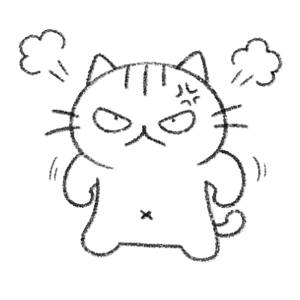
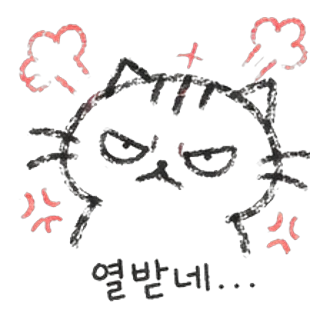
30주년 시세 글: 슨생이 만든 교묘 썸네일·이모티콘 24종으로 교체
Claude-Session: https://claude.ai/code/session_018qZyUqVku944fH1qFr9wAx

Changed region(s): [[0.06, 0.03, 0.99, 0.96], [0.45, 0.69, 0.51, 0.75], [0.78, 0.87, 0.81, 0.9]]

diff --git a/포켓몬카드-30주년-박스-시세/index.html b/포켓몬카드-30주년-박스-시세/index.html
@@ -2,22 +2,22 @@
 <html lang="ko"><head><meta charset="utf-8"><meta name="viewport" content="width=device-width,initial-scale=1">
 <title>포켓몬카드 30주년 30th CELEBRATION 박스 시세 분석 — 일본판 vs 미국판, 발매 6주 차 가격 흐름 | blvl blog</title><meta name="description" content="9월 16일 동시 발매된 포켓몬카드 30주년 30th CELEBRATION. 일본판 박스는 정가 7,200엔에서 스니커덩크 실거래가 2만 5천 엔 안팎에 머물고, 미국판 ETB는 9월 말 고점보다 30% 가까이 내려왔어요. 발매 6주 차 시세 흐름을 정리했어요.">
 <link rel="canonical" href="https://blvlblog.com/%ED%8F%AC%EC%BC%93%EB%AA%AC%EC%B9%B4%EB%93%9C-30%EC%A3%BC%EB%85%84-%EB%B0%95%EC%8A%A4-%EC%8B%9C%EC%84%B8/"><meta property="og:type" content="website"><meta property="og:title" content="포켓몬카드 30주년 30th CELEBRATION 박스 시세 분석 — 일본판 vs 미국판, 발매 6주 차 가격 흐름 | blvl blog">
-<meta property="og:description" content="9월 16일 동시 발매된 포켓몬카드 30주년 30th CELEBRATION. 일본판 박스는 정가 7,200엔에서 스니커덩크 실거래가 2만 5천 엔 안팎에 머물고, 미국판 ETB는 9월 말 고점보다 30% 가까이 내려왔어요. 발매 6주 차 시세 흐름을 정리했어요."><meta property="og:url" content="https://blvlblog.com/%ED%8F%AC%EC%BC%93%EB%AA%AC%EC%B9%B4%EB%93%9C-30%EC%A3%BC%EB%85%84-%EB%B0%95%EC%8A%A4-%EC%8B%9C%EC%84%B8/"><meta property="og:image" content="https://blvlblog.com/wp-content/uploads/2026/10/blvl-tcg-30th-gyomyo.jpg">
+<meta property="og:description" content="9월 16일 동시 발매된 포켓몬카드 30주년 30th CELEBRATION. 일본판 박스는 정가 7,200엔에서 스니커덩크 실거래가 2만 5천 엔 안팎에 머물고, 미국판 ETB는 9월 말 고점보다 30% 가까이 내려왔어요. 발매 6주 차 시세 흐름을 정리했어요."><meta property="og:url" content="https://blvlblog.com/%ED%8F%AC%EC%BC%93%EB%AA%AC%EC%B9%B4%EB%93%9C-30%EC%A3%BC%EB%85%84-%EB%B0%95%EC%8A%A4-%EC%8B%9C%EC%84%B8/"><meta property="og:image" content="https://blvlblog.com/wp-content/uploads/2026/10/blvl-tcg-30th-gyomyo-v2.jpg">
 <link rel="alternate" type="application/rss+xml" title="blvl blog" href="/feed.xml">
 <link rel="preload" href="/assets/fonts/NanumGothic-Regular.woff" as="font" type="font/woff" crossorigin>
 <link rel="icon" href="/assets/favicon-32.png" sizes="32x32"><link rel="icon" href="/favicon.ico"><link rel="apple-touch-icon" href="/assets/apple-touch-icon.png">
-<link rel="stylesheet" href="/assets/blog.css?v=7">
+<link rel="stylesheet" href="/assets/blog.css?v=8">
 <script async src="https://pagead2.googlesyndication.com/pagead/js/adsbygoogle.js?client=ca-pub-4380904134243959" crossorigin="anonymous"></script>
-<script type="application/ld+json">{"@context": "https://schema.org", "@type": "BlogPosting", "headline": "포켓몬카드 30주년 30th CELEBRATION 박스 시세 분석 — 일본판 vs 미국판, 발매 6주 차 가격 흐름", "datePublished": "2026-10-28T14:00:00+09:00", "dateModified": "2026-10-28T14:00:00+09:00", "author": {"@type": "Person", "name": "blvl"}, "description": "9월 16일 동시 발매된 포켓몬카드 30주년 30th CELEBRATION. 일본판 박스는 정가 7,200엔에서 스니커덩크 실거래가 2만 5천 엔 안팎에 머물고, 미국판 ETB는 9월 말 고점보다 30% 가까이 내려왔어요. 발매 6주 차 시세 흐름을 정리했어요.", "mainEntityOfPage": "https://blvlblog.com/%ED%8F%AC%EC%BC%93%EB%AA%AC%EC%B9%B4%EB%93%9C-30%EC%A3%BC%EB%85%84-%EB%B0%95%EC%8A%A4-%EC%8B%9C%EC%84%B8/", "image": "https://blvlblog.com/wp-content/uploads/2026/10/blvl-tcg-30th-gyomyo.jpg"}</script></head><body>
+<script type="application/ld+json">{"@context": "https://schema.org", "@type": "BlogPosting", "headline": "포켓몬카드 30주년 30th CELEBRATION 박스 시세 분석 — 일본판 vs 미국판, 발매 6주 차 가격 흐름", "datePublished": "2026-10-28T14:00:00+09:00", "dateModified": "2026-10-28T14:00:00+09:00", "author": {"@type": "Person", "name": "blvl"}, "description": "9월 16일 동시 발매된 포켓몬카드 30주년 30th CELEBRATION. 일본판 박스는 정가 7,200엔에서 스니커덩크 실거래가 2만 5천 엔 안팎에 머물고, 미국판 ETB는 9월 말 고점보다 30% 가까이 내려왔어요. 발매 6주 차 시세 흐름을 정리했어요.", "mainEntityOfPage": "https://blvlblog.com/%ED%8F%AC%EC%BC%93%EB%AA%AC%EC%B9%B4%EB%93%9C-30%EC%A3%BC%EB%85%84-%EB%B0%95%EC%8A%A4-%EC%8B%9C%EC%84%B8/", "image": "https://blvlblog.com/wp-content/uploads/2026/10/blvl-tcg-30th-gyomyo-v2.jpg"}</script></head><body>
 <header class="site-header" id="hd"><div class="inside-header">
 <a class="site-logo" href="/" rel="home"><img src="/assets/logo.png" alt="blvl blog" width="80" height="51"></a>
 <nav class="main-navigation" aria-label="메뉴"><button class="menu-toggle" type="button" onclick="document.getElementById('hd').classList.toggle('open')">☰ <span>Menu</span></button>
 <ul class="main-nav"><li><a class="" href="/">HOME</a></li><li><a class="" href="/category/tcg/">TCG</a></li><li><a class="" href="/category/minicar/">MINICAR</a></li><li><a class="" href="/category/figure/">FIGURE</a></li><li><a class="" href="/category/game/">GAME</a></li><li><a class="" href="/category/tech/">TECH</a></li></ul><a class="nav-search" href="/search/" aria-label="검색"><svg viewBox="0 0 512 512" aria-hidden="true" fill="currentColor"><path d="M208 48c-88.4 0-160 71.6-160 160s71.6 160 160 160 160-71.6 160-160S296.4 48 208 48zM0 208C0 93.1 93.1 0 208 0s208 93.1 208 208c0 48.8-16.8 93.7-45 129.2l135 135-34 34-135-135C301.7 399.2 256.8 416 208 416 93.1 416 0 322.9 0 208z"/></svg></a></nav>
 </div></header>
 <div class="site-content"><main class="content-area"><article class="inside-article"><header><h1 class="entry-title">포켓몬카드 30주년 30th CELEBRATION 박스 시세 분석 — 일본판 vs 미국판, 발매 6주 차 가격 흐름</h1>
-<div class="entry-meta"><time>2026년 10월 28일</time> by blvl.</div></header><div class="single-featured-image"><img src="/wp-content/uploads/2026/10/blvl-tcg-30th-gyomyo.jpg" alt="포켓몬카드 30주년 30th CELEBRATION 박스 시세 분석 — 일본판 vs 미국판, 발매 6주 차 가격 흐름"></div>
+<div class="entry-meta"><time>2026년 10월 28일</time> by blvl.</div></header><div class="single-featured-image"><img src="/wp-content/uploads/2026/10/blvl-tcg-30th-gyomyo-v2.jpg" alt="포켓몬카드 30주년 30th CELEBRATION 박스 시세 분석 — 일본판 vs 미국판, 발매 6주 차 가격 흐름"></div>
 <div class="entry-content"><p>포켓몬카드 30주년 확장팩 <strong>30th CELEBRATION</strong>이 2026년 9월 16일 일본·한국·영문판 동시에 나온 지 6주가 지났어요. 발매 첫 주의 광풍이 조금 가라앉은 지금, 일본판 박스와 미국(영문)판 제품 시세가 어떻게 움직였는지 숫자로 정리해 봤어요. 기준일은 <strong>2026년 10월 27~28일</strong>이에요.</p>
-<div class="emo"><img src="/wp-content/uploads/emoticons/gyomyo/excited.webp" alt="교묘 신난 표정" width="96" height="96" loading="lazy"><div class="bubble"><b>미친고양이 교묘</b>30주년이다냥! 박스 시세 오늘 내가 싹 다 털어 주겠다냥!</div></div>
+<div class="emo"><img src="/wp-content/uploads/emoticons/gyomyo/great.webp" alt="교묘 이모티콘 개좋아" width="120" height="120" loading="lazy"><div class="bubble"><b>미친고양이 교묘</b>30주년이다냥! 박스 시세 오늘 내가 싹 다 털어 주겠다냥!</div></div>
 
 <figure style="margin:1.5em 0"><div style="position:relative;padding-top:56.25%;border-radius:8px;overflow:hidden;background:#000">
 <iframe src="https://www.youtube-nocookie.com/embed/05w9UVH6zoQ" title="Pokémon TCG: 30th Celebration 공식 트레일러" loading="lazy" style="position:absolute;inset:0;width:100%;height:100%;border:0" allow="accelerometer; encrypted-media; gyroscope; picture-in-picture" allowfullscreen></iframe></div>
@@ -46,6 +46,7 @@
 <figcaption style="font-size:14px;color:#666;text-align:center">팩 구성 비교 (피카츄 30종 중 1장은 양쪽 모두 확정)</figcaption></figure>
 
 <h3>실제로 사려면 얼마? 스니커덩크 실거래가</h3>
+<div class="emo"><img src="/wp-content/uploads/emoticons/gyomyo/price-check.webp" alt="교묘 이모티콘 시세보는중" width="120" height="120" loading="lazy"><div class="bubble"><b>미친고양이 교묘</b>매일 아침 스니커덩크 시세부터 보는 게 내 루틴이다냥.</div></div>
 <p>일본 최대 트레이딩카드·스니커즈 거래 플랫폼인 스니커덩크(SNKRDUNK)의 실거래가는 실제로 박스를 살 때 기준이 되는 숫자예요. 여기에는 발매 전 예약 거래부터 기록이 남아 있어서 흐름이 훨씬 극적으로 보여요.</p>
 <figure style="margin:1.5em 0"><svg viewBox="0 0 420 250" width="100%" style="max-width:640px;display:block;margin:0 auto" role="img" aria-label="스니커덩크 일본판 BOX 일평균 거래가: 발매 전 예약 거래 8월 29일 45,000엔 정점, 발매 직전 9월 15일 17,735엔 최저, 9월 22일 28,290엔 반등, 10월 28일 24,733엔">
 <line x1="46" x2="408" y1="185.8" y2="185.8" stroke="#e3e5ea"/><text x="40" y="189.8" text-anchor="end" font-size="12" fill="#6b6f7a">2만</text><line x1="46" x2="408" y1="128.7" y2="128.7" stroke="#e3e5ea"/><text x="40" y="132.7" text-anchor="end" font-size="12" fill="#6b6f7a">3만</text><line x1="46" x2="408" y1="71.6" y2="71.6" stroke="#e3e5ea"/><text x="40" y="75.6" text-anchor="end" font-size="12" fill="#6b6f7a">4만</text><line x1="184.4" x2="184.4" y1="20" y2="220" stroke="#999" stroke-dasharray="3 3"/><text x="188.4" y="30" font-size="11" fill="#6b6f7a">발매일</text><path d="M46.0,100.2 L51.3,95.3 L56.6,83.1 L62.0,74.5 L67.3,73.8 L72.6,71.6 L77.9,57.2 L83.3,47.1 L88.6,43.1 L109.9,57.4 L115.2,61.2 L120.5,114.4 L125.9,105.3 L131.2,114.9 L136.5,113.9 L141.8,110.2 L147.1,107.7 L152.5,140.8 L157.8,159.6 L163.1,179.3 L168.4,198.6 L173.8,193.9 L179.1,198.7 L184.4,198.0 L189.7,189.0 L195.1,177.7 L200.4,173.1 L205.7,160.6 L211.0,144.2 L216.4,138.5 L221.7,152.0 L227.0,161.6 L232.3,162.0 L237.6,158.3 L243.0,161.7 L248.3,160.3 L253.6,154.6 L258.9,158.1 L264.3,153.3 L269.6,150.2 L274.9,152.6 L280.2,152.7 L285.6,150.7 L290.9,151.3 L296.2,151.7 L301.5,151.2 L306.9,151.9 L312.2,153.6 L317.5,152.5 L322.8,153.2 L328.1,154.0 L333.5,155.8 L338.8,155.0 L344.1,151.5 L349.4,154.1 L354.8,153.6 L360.1,152.5 L365.4,155.4 L370.7,153.7 L376.1,153.7 L381.4,156.0 L386.7,154.0 L392.0,155.9 L397.4,154.8 L402.7,156.1 L408.0,158.8" fill="none" stroke="#0e9f8e" stroke-width="2.5" stroke-linejoin="round"/><circle cx="88.6" cy="43.1" r="4" fill="#0e9f8e"/><text x="88.6" y="34.1" text-anchor="middle" font-size="13" font-weight="700" fill="#222">45,000엔</text><circle cx="179.1" cy="198.7" r="4" fill="#0e9f8e"/><text x="179.1" y="218.7" text-anchor="middle" font-size="13" font-weight="700" fill="#222">17,735엔</text><circle cx="216.4" cy="138.5" r="4" fill="#0e9f8e"/><text x="216.4" y="129.5" text-anchor="start" font-size="13" font-weight="700" fill="#222">28,290엔</text><circle cx="408.0" cy="158.8" r="4" fill="#0e9f8e"/><text x="408.0" y="149.8" text-anchor="end" font-size="13" font-weight="700" fill="#222">24,733엔</text><text x="46.0" y="242" text-anchor="start" font-size="12" fill="#6b6f7a">8/21</text><text x="184.4" y="242" text-anchor="middle" font-size="12" fill="#6b6f7a">9/16</text><text x="408.0" y="242" text-anchor="end" font-size="12" fill="#6b6f7a">10/28</text></svg>
@@ -59,7 +60,7 @@
 <li><strong>발매 후 반등(9월 22일):</strong> 뮤 RGB 같은 고가 카드가 나오면서 28,290엔까지 다시 올랐어요.</li>
 <li><strong>10월 박스권:</strong> 한 달 내내 25,000~26,000엔 사이에서 움직이다가, 10월 28일 평균 24,733엔으로 살짝 내려왔어요. 이날 실제 체결가는 24,000~25,000엔, 최저 판매 호가는 24,400엔이에요.</li>
 </ul>
-<div class="emo"><img src="/wp-content/uploads/emoticons/gyomyo/shock.webp" alt="교묘 충격받은 표정" width="96" height="96" loading="lazy"><div class="bubble"><b>미친고양이 교묘</b>예약 거래에서 4만 5천 엔에 산 집사들… 발매 직전에 1만 7천 엔대라니, 내 심장이 내려앉았다냥.</div></div>
+<div class="emo"><img src="/wp-content/uploads/emoticons/gyomyo/heok.webp" alt="교묘 이모티콘 헉" width="120" height="120" loading="lazy"><div class="bubble"><b>미친고양이 교묘</b>예약 거래에서 4만 5천 엔에 산 집사들… 발매 직전에 1만 7천 엔대라니, 내 심장이 내려앉았다냥.</div></div>
 <figure style="margin:1.5em auto;max-width:550px"><blockquote class="twitter-tweet" data-lang="ko" data-dnt="true" data-align="center"><p>30th CELEBRATION 세계 동시 발매 당일 공지</p><a href="https://twitter.com/Pokemon_cojp/status/2100147685734969581">포켓몬 공식(@Pokemon_cojp) X 게시물 보기</a></blockquote></figure>
 <p>같은 날 스니커덩크 기준 슈링크 없는 박스는 22,300엔, 낱개 팩은 1,000엔이에요. 팩 20개를 낱개로 사면 2만 엔이라 박스보다 싸게 먹히는 셈인데, 박스는 미개봉 보관 가치(슈링크)까지 값에 들어가 있다고 보면 돼요.</p>
 
@@ -78,7 +79,7 @@
 <p>발매 직후 매입가가 24개 업체 평균 17,358엔(슈링크 있음)이었으니, 6주 동안 오히려 올라서 자리를 잡은 셈이에요. 참고로 이 숫자는 <strong>가게가 사 주는 값(매입가)</strong>이라 실제로 사는 값은 이보다 높게 형성돼요.</p>
 
 <h3>박스 값을 받치는 카드들</h3>
-<div class="emo"><img src="/wp-content/uploads/emoticons/gyomyo/tear-pack.webp" alt="교묘 팩을 뜯는 모습" width="96" height="96" loading="lazy"><div class="bubble"><b>미친고양이 교묘</b>뮤 RGB 한 장이면 50만 엔이 넘는다냥. 그러니까 다들 박스를 못 참고 뜯는 거다냥!</div></div>
+<div class="emo"><img src="/wp-content/uploads/emoticons/gyomyo/rare.webp" alt="교묘 이모티콘 레어다" width="120" height="120" loading="lazy"><div class="bubble"><b>미친고양이 교묘</b>뮤 RGB 한 장이면 50만 엔이 넘는다냥. 그러니까 다들 박스를 못 참고 뜯는 거다냥!</div></div>
 <p>박스 시세를 끌어올리는 건 결국 최상위 카드예요. 10월 27일 기준 일본 판매가로 보면 이래요.</p>
 <ul>
 <li><strong>뮤 RGB 3종 (R/G/B):</strong> 약 53만~70만 엔. 이번 세트의 압도적인 1~3위예요.</li>
@@ -89,7 +90,7 @@
 
 <h3>FUTURISTIC BOX는 더 크게 출렁였어요</h3>
 <p>포켓몬센터 온라인 한정인 FUTURISTIC BOX(정가 27,500엔, FUR 사양 피카츄 ex 프로모 2종 포함)는 9월 20일 거래가 81,999엔까지 갔다가 지금은 6만 엔 초반이에요. 정점보다는 25% 정도 내려왔지만 여전히 정가의 2배가 넘어요.</p>
-<div class="emo"><img src="/wp-content/uploads/emoticons/gyomyo/broke.webp" alt="교묘 빈 지갑" width="96" height="96" loading="lazy"><div class="bubble"><b>미친고양이 교묘</b>정가 2만 7,500엔이 6만 엔대… 내 지갑은 이미 텅 비었다냥.</div></div>
+<div class="emo"><img src="/wp-content/uploads/emoticons/gyomyo/sob.webp" alt="교묘 이모티콘 오열" width="120" height="120" loading="lazy"><div class="bubble"><b>미친고양이 교묘</b>정가 2만 7,500엔이 6만 엔대라니… 내 지갑은 이미 울고 있다냥. ㅠㅠㅠ</div></div>
 
 <h2>미국(영문)판: 발매 후 꾸준히 내려오는 중</h2>
 <p>영문판은 구조부터 달라요. 일본판 같은 20팩 부스터 박스가 없고, 팩도 낱개로 팔지 않아요. 엘리트 트레이너 박스(ETB), 부스터 번들, 각종 컬렉션 안에 팩이 들어 있는 방식이에요. 팩 구성도 홀로 5장에 기본 에너지 1장, 코드 카드 1장이라 일본판(홀로 6장)과 차이가 있어요.</p>
@@ -110,7 +111,7 @@
 <p>예외는 <strong>포켓몬센터 한정 ETB</strong>(정가 $59.99)예요. 전용 프로모 덕에 약 $290대에서 거래되고 있어서, 일반 ETB와는 완전히 다른 시장이에요.</p>
 
 <h2>왜 이렇게 다르게 움직일까</h2>
-<div class="emo"><img src="/wp-content/uploads/emoticons/gyomyo/question.webp" alt="교묘 궁금한 표정" width="96" height="96" loading="lazy"><div class="bubble"><b>미친고양이 교묘</b>같은 30주년인데 일본판은 버티고 영문판은 왜 미끄러지냥?</div></div>
+<div class="emo"><img src="/wp-content/uploads/emoticons/gyomyo/hmm-question.webp" alt="교묘 이모티콘 갸우뚱" width="120" height="120" loading="lazy"><div class="bubble"><b>미친고양이 교묘</b>같은 30주년인데 일본판은 버티고 영문판은 왜 미끄러지냥?</div></div>
 <p>제가 보기엔 <strong>공급 구조</strong>의 차이가 커요.</p>
 <ul>
 <li><strong>영문판은 제품이 계속 나와요.</strong> 9월 16일 ETB를 시작으로 10월 2일 부스터 번들, 11월 6일 울트라 프리미엄 컬렉션($179.99), 12월 4일 틴·바인더 컬렉션까지 발매 일정이 이어져요. 물량이 계속 풀리니 가격이 내려올 수밖에 없는 흐름이에요.</li>
@@ -118,14 +119,14 @@
 </ul>
 
 <h2>앞으로 볼 체크포인트</h2>
-<div class="emo"><img src="/wp-content/uploads/emoticons/gyomyo/sleep.webp" alt="교묘 박스 위에서 자는 모습" width="96" height="96" loading="lazy"><div class="bubble"><b>미친고양이 교묘</b>나는 박스 위에서 12월 추가 추첨까지 존버하겠다냥… 쿨쿨.</div></div>
+<div class="emo"><img src="/wp-content/uploads/emoticons/gyomyo/mine.webp" alt="교묘 이모티콘 내꺼야" width="120" height="120" loading="lazy"><div class="bubble"><b>미친고양이 교묘</b>이 박스는 내꺼다냥. 12월 추가 추첨까지 꼭 끌어안고 존버하겠다냥…</div></div>
 <ul>
 <li><strong>일본:</strong> 포켓몬센터 온라인이 2026년 12월쯤 추가 추첨을 예고했어요. 물량이 더 풀리면 박스권 하단(2만 5천 엔)이 지켜질지가 관건이에요.</li>
 <li><strong>미국:</strong> 11월 6일 울트라 프리미엄 컬렉션, 12월 4일 틴·바인더 발매 뒤 ETB가 $100 아래로 내려가는지 지켜볼 만해요.</li>
 <li><strong>한국:</strong> 한국판은 일본판과 같은 20팩 구성에 정가 7만 원이에요. 일본판 흐름을 따라갈 가능성이 높아 보여요.</li>
 </ul>
 
-<div class="emo"><img src="/wp-content/uploads/emoticons/gyomyo/smug.webp" alt="교묘 엄지척" width="96" height="96" loading="lazy"><div class="bubble"><b>미친고양이 교묘</b>정리하면, 일본판은 2만 5천 엔대 박스권이고 영문판은 아직 내려가는 중이다냥. 다음 시세 리포트도 기대하라냥!</div></div>
+<div class="emo"><img src="/wp-content/uploads/emoticons/gyomyo/good.webp" alt="교묘 이모티콘 굿" width="120" height="120" loading="lazy"><div class="bubble"><b>미친고양이 교묘</b>정리하면, 일본판은 2만 5천 엔대 박스권이고 영문판은 아직 내려가는 중이다냥. 다음 시세 리포트도 기대하라냥!</div></div>
 <p style="font-size:14px;color:#666">※ 이 글의 시세는 2026년 10월 27~28일 기준이며, 매입가와 판매가, 집계 사이트에 따라 숫자가 다를 수 있어요. 투자 권유가 아니라 수집가 입장에서 시장 흐름을 정리한 글이에요.</p>
 
 <h3>참고한 자료</h3>

diff --git a/_posts/포켓몬카드-30주년-박스-시세.html b/_posts/포켓몬카드-30주년-박스-시세.html
@@ -5,7 +5,7 @@
  "date": "2026-10-28 14:00:00",
  "mod": "2026-10-28 14:00:00",
  "desc": "9월 16일 동시 발매된 포켓몬카드 30주년 30th CELEBRATION. 일본판 박스는 정가 7,200엔에서 스니커덩크 실거래가 2만 5천 엔 안팎에 머물고, 미국판 ETB는 9월 말 고점보다 30% 가까이 내려왔어요. 발매 6주 차 시세 흐름을 정리했어요.",
- "thumb": "/wp-content/uploads/2026/10/blvl-tcg-30th-gyomyo.jpg",
+ "thumb": "/wp-content/uploads/2026/10/blvl-tcg-30th-gyomyo-v2.jpg",
  "category": "tcg",
  "tags": [
   "포켓몬카드",
@@ -17,7 +17,7 @@
 }
 -->
 <p>포켓몬카드 30주년 확장팩 <strong>30th CELEBRATION</strong>이 2026년 9월 16일 일본·한국·영문판 동시에 나온 지 6주가 지났어요. 발매 첫 주의 광풍이 조금 가라앉은 지금, 일본판 박스와 미국(영문)판 제품 시세가 어떻게 움직였는지 숫자로 정리해 봤어요. 기준일은 <strong>2026년 10월 27~28일</strong>이에요.</p>
-<div class="emo"><img src="/wp-content/uploads/emoticons/gyomyo/excited.webp" alt="교묘 신난 표정" width="96" height="96" loading="lazy"><div class="bubble"><b>미친고양이 교묘</b>30주년이다냥! 박스 시세 오늘 내가 싹 다 털어 주겠다냥!</div></div>
+<div class="emo"><img src="/wp-content/uploads/emoticons/gyomyo/great.webp" alt="교묘 이모티콘 개좋아" width="120" height="120" loading="lazy"><div class="bubble"><b>미친고양이 교묘</b>30주년이다냥! 박스 시세 오늘 내가 싹 다 털어 주겠다냥!</div></div>
 
 <figure style="margin:1.5em 0"><div style="position:relative;padding-top:56.25%;border-radius:8px;overflow:hidden;background:#000">
 <iframe src="https://www.youtube-nocookie.com/embed/05w9UVH6zoQ" title="Pokémon TCG: 30th Celebration 공식 트레일러" loading="lazy" style="position:absolute;inset:0;width:100%;height:100%;border:0" allow="accelerometer; encrypted-media; gyroscope; picture-in-picture" allowfullscreen></iframe></div>
@@ -46,6 +46,7 @@
 <figcaption style="font-size:14px;color:#666;text-align:center">팩 구성 비교 (피카츄 30종 중 1장은 양쪽 모두 확정)</figcaption></figure>
 
 <h3>실제로 사려면 얼마? 스니커덩크 실거래가</h3>
+<div class="emo"><img src="/wp-content/uploads/emoticons/gyomyo/price-check.webp" alt="교묘 이모티콘 시세보는중" width="120" height="120" loading="lazy"><div class="bubble"><b>미친고양이 교묘</b>매일 아침 스니커덩크 시세부터 보는 게 내 루틴이다냥.</div></div>
 <p>일본 최대 트레이딩카드·스니커즈 거래 플랫폼인 스니커덩크(SNKRDUNK)의 실거래가는 실제로 박스를 살 때 기준이 되는 숫자예요. 여기에는 발매 전 예약 거래부터 기록이 남아 있어서 흐름이 훨씬 극적으로 보여요.</p>
 <figure style="margin:1.5em 0"><svg viewBox="0 0 420 250" width="100%" style="max-width:640px;display:block;margin:0 auto" role="img" aria-label="스니커덩크 일본판 BOX 일평균 거래가: 발매 전 예약 거래 8월 29일 45,000엔 정점, 발매 직전 9월 15일 17,735엔 최저, 9월 22일 28,290엔 반등, 10월 28일 24,733엔">
 <line x1="46" x2="408" y1="185.8" y2="185.8" stroke="#e3e5ea"/><text x="40" y="189.8" text-anchor="end" font-size="12" fill="#6b6f7a">2만</text><line x1="46" x2="408" y1="128.7" y2="128.7" stroke="#e3e5ea"/><text x="40" y="132.7" text-anchor="end" font-size="12" fill="#6b6f7a">3만</text><line x1="46" x2="408" y1="71.6" y2="71.6" stroke="#e3e5ea"/><text x="40" y="75.6" text-anchor="end" font-size="12" fill="#6b6f7a">4만</text><line x1="184.4" x2="184.4" y1="20" y2="220" stroke="#999" stroke-dasharray="3 3"/><text x="188.4" y="30" font-size="11" fill="#6b6f7a">발매일</text><path d="M46.0,100.2 L51.3,95.3 L56.6,83.1 L62.0,74.5 L67.3,73.8 L72.6,71.6 L77.9,57.2 L83.3,47.1 L88.6,43.1 L109.9,57.4 L115.2,61.2 L120.5,114.4 L125.9,105.3 L131.2,114.9 L136.5,113.9 L141.8,110.2 L147.1,107.7 L152.5,140.8 L157.8,159.6 L163.1,179.3 L168.4,198.6 L173.8,193.9 L179.1,198.7 L184.4,198.0 L189.7,189.0 L195.1,177.7 L200.4,173.1 L205.7,160.6 L211.0,144.2 L216.4,138.5 L221.7,152.0 L227.0,161.6 L232.3,162.0 L237.6,158.3 L243.0,161.7 L248.3,160.3 L253.6,154.6 L258.9,158.1 L264.3,153.3 L269.6,150.2 L274.9,152.6 L280.2,152.7 L285.6,150.7 L290.9,151.3 L296.2,151.7 L301.5,151.2 L306.9,151.9 L312.2,153.6 L317.5,152.5 L322.8,153.2 L328.1,154.0 L333.5,155.8 L338.8,155.0 L344.1,151.5 L349.4,154.1 L354.8,153.6 L360.1,152.5 L365.4,155.4 L370.7,153.7 L376.1,153.7 L381.4,156.0 L386.7,154.0 L392.0,155.9 L397.4,154.8 L402.7,156.1 L408.0,158.8" fill="none" stroke="#0e9f8e" stroke-width="2.5" stroke-linejoin="round"/><circle cx="88.6" cy="43.1" r="4" fill="#0e9f8e"/><text x="88.6" y="34.1" text-anchor="middle" font-size="13" font-weight="700" fill="#222">45,000엔</text><circle cx="179.1" cy="198.7" r="4" fill="#0e9f8e"/><text x="179.1" y="218.7" text-anchor="middle" font-size="13" font-weight="700" fill="#222">17,735엔</text><circle cx="216.4" cy="138.5" r="4" fill="#0e9f8e"/><text x="216.4" y="129.5" text-anchor="start" font-size="13" font-weight="700" fill="#222">28,290엔</text><circle cx="408.0" cy="158.8" r="4" fill="#0e9f8e"/><text x="408.0" y="149.8" text-anchor="end" font-size="13" font-weight="700" fill="#222">24,733엔</text><text x="46.0" y="242" text-anchor="start" font-size="12" fill="#6b6f7a">8/21</text><text x="184.4" y="242" text-anchor="middle" font-size="12" fill="#6b6f7a">9/16</text><text x="408.0" y="242" text-anchor="end" font-size="12" fill="#6b6f7a">10/28</text></svg>
@@ -59,7 +60,7 @@
 <li><strong>발매 후 반등(9월 22일):</strong> 뮤 RGB 같은 고가 카드가 나오면서 28,290엔까지 다시 올랐어요.</li>
 <li><strong>10월 박스권:</strong> 한 달 내내 25,000~26,000엔 사이에서 움직이다가, 10월 28일 평균 24,733엔으로 살짝 내려왔어요. 이날 실제 체결가는 24,000~25,000엔, 최저 판매 호가는 24,400엔이에요.</li>
 </ul>
-<div class="emo"><img src="/wp-content/uploads/emoticons/gyomyo/shock.webp" alt="교묘 충격받은 표정" width="96" height="96" loading="lazy"><div class="bubble"><b>미친고양이 교묘</b>예약 거래에서 4만 5천 엔에 산 집사들… 발매 직전에 1만 7천 엔대라니, 내 심장이 내려앉았다냥.</div></div>
+<div class="emo"><img src="/wp-content/uploads/emoticons/gyomyo/heok.webp" alt="교묘 이모티콘 헉" width="120" height="120" loading="lazy"><div class="bubble"><b>미친고양이 교묘</b>예약 거래에서 4만 5천 엔에 산 집사들… 발매 직전에 1만 7천 엔대라니, 내 심장이 내려앉았다냥.</div></div>
 <figure style="margin:1.5em auto;max-width:550px"><blockquote class="twitter-tweet" data-lang="ko" data-dnt="true" data-align="center"><p>30th CELEBRATION 세계 동시 발매 당일 공지</p><a href="https://twitter.com/Pokemon_cojp/status/2100147685734969581">포켓몬 공식(@Pokemon_cojp) X 게시물 보기</a></blockquote></figure>
 <p>같은 날 스니커덩크 기준 슈링크 없는 박스는 22,300엔, 낱개 팩은 1,000엔이에요. 팩 20개를 낱개로 사면 2만 엔이라 박스보다 싸게 먹히는 셈인데, 박스는 미개봉 보관 가치(슈링크)까지 값에 들어가 있다고 보면 돼요.</p>
 
@@ -78,7 +79,7 @@
 <p>발매 직후 매입가가 24개 업체 평균 17,358엔(슈링크 있음)이었으니, 6주 동안 오히려 올라서 자리를 잡은 셈이에요. 참고로 이 숫자는 <strong>가게가 사 주는 값(매입가)</strong>이라 실제로 사는 값은 이보다 높게 형성돼요.</p>
 
 <h3>박스 값을 받치는 카드들</h3>
-<div class="emo"><img src="/wp-content/uploads/emoticons/gyomyo/tear-pack.webp" alt="교묘 팩을 뜯는 모습" width="96" height="96" loading="lazy"><div class="bubble"><b>미친고양이 교묘</b>뮤 RGB 한 장이면 50만 엔이 넘는다냥. 그러니까 다들 박스를 못 참고 뜯는 거다냥!</div></div>
+<div class="emo"><img src="/wp-content/uploads/emoticons/gyomyo/rare.webp" alt="교묘 이모티콘 레어다" width="120" height="120" loading="lazy"><div class="bubble"><b>미친고양이 교묘</b>뮤 RGB 한 장이면 50만 엔이 넘는다냥. 그러니까 다들 박스를 못 참고 뜯는 거다냥!</div></div>
 <p>박스 시세를 끌어올리는 건 결국 최상위 카드예요. 10월 27일 기준 일본 판매가로 보면 이래요.</p>
 <ul>
 <li><strong>뮤 RGB 3종 (R/G/B):</strong> 약 53만~70만 엔. 이번 세트의 압도적인 1~3위예요.</li>
@@ -89,7 +90,7 @@
 
 <h3>FUTURISTIC BOX는 더 크게 출렁였어요</h3>
 <p>포켓몬센터 온라인 한정인 FUTURISTIC BOX(정가 27,500엔, FUR 사양 피카츄 ex 프로모 2종 포함)는 9월 20일 거래가 81,999엔까지 갔다가 지금은 6만 엔 초반이에요. 정점보다는 25% 정도 내려왔지만 여전히 정가의 2배가 넘어요.</p>
-<div class="emo"><img src="/wp-content/uploads/emoticons/gyomyo/broke.webp" alt="교묘 빈 지갑" width="96" height="96" loading="lazy"><div class="bubble"><b>미친고양이 교묘</b>정가 2만 7,500엔이 6만 엔대… 내 지갑은 이미 텅 비었다냥.</div></div>
+<div class="emo"><img src="/wp-content/uploads/emoticons/gyomyo/sob.webp" alt="교묘 이모티콘 오열" width="120" height="120" loading="lazy"><div class="bubble"><b>미친고양이 교묘</b>정가 2만 7,500엔이 6만 엔대라니… 내 지갑은 이미 울고 있다냥. ㅠㅠㅠ</div></div>
 
 <h2>미국(영문)판: 발매 후 꾸준히 내려오는 중</h2>
 <p>영문판은 구조부터 달라요. 일본판 같은 20팩 부스터 박스가 없고, 팩도 낱개로 팔지 않아요. 엘리트 트레이너 박스(ETB), 부스터 번들, 각종 컬렉션 안에 팩이 들어 있는 방식이에요. 팩 구성도 홀로 5장에 기본 에너지 1장, 코드 카드 1장이라 일본판(홀로 6장)과 차이가 있어요.</p>
@@ -110,7 +111,7 @@
 <p>예외는 <strong>포켓몬센터 한정 ETB</strong>(정가 $59.99)예요. 전용 프로모 덕에 약 $290대에서 거래되고 있어서, 일반 ETB와는 완전히 다른 시장이에요.</p>
 
 <h2>왜 이렇게 다르게 움직일까</h2>
-<div class="emo"><img src="/wp-content/uploads/emoticons/gyomyo/question.webp" alt="교묘 궁금한 표정" width="96" height="96" loading="lazy"><div class="bubble"><b>미친고양이 교묘</b>같은 30주년인데 일본판은 버티고 영문판은 왜 미끄러지냥?</div></div>
+<div class="emo"><img src="/wp-content/uploads/emoticons/gyomyo/hmm-question.webp" alt="교묘 이모티콘 갸우뚱" width="120" height="120" loading="lazy"><div class="bubble"><b>미친고양이 교묘</b>같은 30주년인데 일본판은 버티고 영문판은 왜 미끄러지냥?</div></div>
 <p>제가 보기엔 <strong>공급 구조</strong>의 차이가 커요.</p>
 <ul>
 <li><strong>영문판은 제품이 계속 나와요.</strong> 9월 16일 ETB를 시작으로 10월 2일 부스터 번들, 11월 6일 울트라 프리미엄 컬렉션($179.99), 12월 4일 틴·바인더 컬렉션까지 발매 일정이 이어져요. 물량이 계속 풀리니 가격이 내려올 수밖에 없는 흐름이에요.</li>
@@ -118,14 +119,14 @@
 </ul>
 
 <h2>앞으로 볼 체크포인트</h2>
-<div class="emo"><img src="/wp-content/uploads/emoticons/gyomyo/sleep.webp" alt="교묘 박스 위에서 자는 모습" width="96" height="96" loading="lazy"><div class="bubble"><b>미친고양이 교묘</b>나는 박스 위에서 12월 추가 추첨까지 존버하겠다냥… 쿨쿨.</div></div>
+<div class="emo"><img src="/wp-content/uploads/emoticons/gyomyo/mine.webp" alt="교묘 이모티콘 내꺼야" width="120" height="120" loading="lazy"><div class="bubble"><b>미친고양이 교묘</b>이 박스는 내꺼다냥. 12월 추가 추첨까지 꼭 끌어안고 존버하겠다냥…</div></div>
 <ul>
 <li><strong>일본:</strong> 포켓몬센터 온라인이 2026년 12월쯤 추가 추첨을 예고했어요. 물량이 더 풀리면 박스권 하단(2만 5천 엔)이 지켜질지가 관건이에요.</li>
 <li><strong>미국:</strong> 11월 6일 울트라 프리미엄 컬렉션, 12월 4일 틴·바인더 발매 뒤 ETB가 $100 아래로 내려가는지 지켜볼 만해요.</li>
 <li><strong>한국:</strong> 한국판은 일본판과 같은 20팩 구성에 정가 7만 원이에요. 일본판 흐름을 따라갈 가능성이 높아 보여요.</li>
 </ul>
 
-<div class="emo"><img src="/wp-content/uploads/emoticons/gyomyo/smug.webp" alt="교묘 엄지척" width="96" height="96" loading="lazy"><div class="bubble"><b>미친고양이 교묘</b>정리하면, 일본판은 2만 5천 엔대 박스권이고 영문판은 아직 내려가는 중이다냥. 다음 시세 리포트도 기대하라냥!</div></div>
+<div class="emo"><img src="/wp-content/uploads/emoticons/gyomyo/good.webp" alt="교묘 이모티콘 굿" width="120" height="120" loading="lazy"><div class="bubble"><b>미친고양이 교묘</b>정리하면, 일본판은 2만 5천 엔대 박스권이고 영문판은 아직 내려가는 중이다냥. 다음 시세 리포트도 기대하라냥!</div></div>
 <p style="font-size:14px;color:#666">※ 이 글의 시세는 2026년 10월 27~28일 기준이며, 매입가와 판매가, 집계 사이트에 따라 숫자가 다를 수 있어요. 투자 권유가 아니라 수집가 입장에서 시장 흐름을 정리한 글이에요.</p>
 
 <h3>참고한 자료</h3>

diff --git a/index.html b/index.html
@@ -6,7 +6,7 @@
 <link rel="alternate" type="application/rss+xml" title="blvl blog" href="/feed.xml">
 <link rel="preload" href="/assets/fonts/NanumGothic-Regular.woff" as="font" type="font/woff" crossorigin>
 <link rel="icon" href="/assets/favicon-32.png" sizes="32x32"><link rel="icon" href="/favicon.ico"><link rel="apple-touch-icon" href="/assets/apple-touch-icon.png">
-<link rel="stylesheet" href="/assets/blog.css?v=7">
+<link rel="stylesheet" href="/assets/blog.css?v=8">
 <script async src="https://pagead2.googlesyndication.com/pagead/js/adsbygoogle.js?client=ca-pub-4380904134243959" crossorigin="anonymous"></script>
 </head><body>
 <header class="site-header" id="hd"><div class="inside-header">
@@ -15,7 +15,7 @@
 <ul class="main-nav"><li><a class="on" href="/">HOME</a></li><li><a class="" href="/category/tcg/">TCG</a></li><li><a class="" href="/category/minicar/">MINICAR</a></li><li><a class="" href="/category/figure/">FIGURE</a></li><li><a class="" href="/category/game/">GAME</a></li><li><a class="" href="/category/tech/">TECH</a></li></ul><a class="nav-search" href="/search/" aria-label="검색"><svg viewBox="0 0 512 512" aria-hidden="true" fill="currentColor"><path d="M208 48c-88.4 0-160 71.6-160 160s71.6 160 160 160 160-71.6 160-160S296.4 48 208 48zM0 208C0 93.1 93.1 0 208 0s208 93.1 208 208c0 48.8-16.8 93.7-45 129.2l135 135-34 34-135-135C301.7 399.2 256.8 416 208 416 93.1 416 0 322.9 0 208z"/></svg></a></nav>
 </div></header>
 <div style="height:30px"></div><section class="gb-section"><h2 class="custom-title">Featured Posts</h2>
-<div class="feat"><div class="big"><div class="gbc"><a class="gimg" href="/%ED%8F%AC%EC%BC%93%EB%AA%AC%EC%B9%B4%EB%93%9C-30%EC%A3%BC%EB%85%84-%EB%B0%95%EC%8A%A4-%EC%8B%9C%EC%84%B8/"><img loading="lazy" src="/wp-content/uploads/2026/10/blvl-tcg-30th-gyomyo.jpg" alt="포켓몬카드 30주년 30th CELEBRATION 박스 시세 분석 — 일본판 vs 미국판, 발매 6주 차 가격 흐름"></a>
+<div class="feat"><div class="big"><div class="gbc"><a class="gimg" href="/%ED%8F%AC%EC%BC%93%EB%AA%AC%EC%B9%B4%EB%93%9C-30%EC%A3%BC%EB%85%84-%EB%B0%95%EC%8A%A4-%EC%8B%9C%EC%84%B8/"><img loading="lazy" src="/wp-content/uploads/2026/10/blvl-tcg-30th-gyomyo-v2.jpg" alt="포켓몬카드 30주년 30th CELEBRATION 박스 시세 분석 — 일본판 vs 미국판, 발매 6주 차 가격 흐름"></a>
 <div class="gcat"><a href="/category/tcg/">TCG</a></div><h2 class="gtitle"><a href="/%ED%8F%AC%EC%BC%93%EB%AA%AC%EC%B9%B4%EB%93%9C-30%EC%A3%BC%EB%85%84-%EB%B0%95%EC%8A%A4-%EC%8B%9C%EC%84%B8/">포켓몬카드 30주년 30th CELEBRATION 박스 시세 분석 — 일본판 vs 미국판, 발매 6주 차 가격 흐름</a></h2>
 <div class="gmeta"><span>Written by:</span><b>blvl.</b><span>/</span><time>2026년 10월 28일</time></div><p class="gexc">9월 16일 동시 발매된 포켓몬카드 30주년 30th CELEBRATION. 일본판 박스는 정가 7,200엔에서 스니커덩크 실거래가 2만 5천 엔 안팎에 머물고, 미국판 ETB는 9월 말 고점보다 …</p></div></div><div class="small"><div class="gbc"><a class="gimg" href="/%EB%AF%B8%EB%93%9C%EC%A0%80%EB%8B%88%EC%97%90%EC%84%9C-%EC%A0%84%EC%8B%A0-%EC%9D%B4%EB%AF%B8%EC%A7%80/"><img loading="lazy" src="/wp-content/uploads/2024/04/blvl_포스팅표지19-1.jpg" alt="미드저니 사용방법 EP4 - 전신컷 쉽게 만들기"></a>
 <div class="gcat"><a href="/category/tech/">TECH</a></div><h2 class="gtitle"><a href="/%EB%AF%B8%EB%93%9C%EC%A0%80%EB%8B%88%EC%97%90%EC%84%9C-%EC%A0%84%EC%8B%A0-%EC%9D%B4%EB%AF%B8%EC%A7%80/">미드저니 사용방법 EP4 - 전신컷 쉽게 만들기</a></h2>
@@ -27,7 +27,7 @@
 <div class="gcat"><a href="/category/tech/">TECH</a></div><h2 class="gtitle"><a href="/%ED%8F%AC%ED%86%A0%EC%83%B5-%ED%95%B8%EB%93%9C%ED%88%B4/">포토샵 핸드툴(Hand tool) 미끄러지는 현상 10초 만에 해결!</a></h2>
 <div class="gmeta"><span>Written by:</span><b>blvl.</b><span>/</span><time>2024년 3월 26일</time></div></div></div></div></section>
 <section class="gb-section latest"><h2 class="custom-title">Latest Posts</h2>
-<div class="lgrid"><div class="gbc"><a class="gimg" href="/%ED%8F%AC%EC%BC%93%EB%AA%AC%EC%B9%B4%EB%93%9C-30%EC%A3%BC%EB%85%84-%EB%B0%95%EC%8A%A4-%EC%8B%9C%EC%84%B8/"><img loading="lazy" src="/wp-content/uploads/2026/10/blvl-tcg-30th-gyomyo.jpg" alt="포켓몬카드 30주년 30th CELEBRATION 박스 시세 분석 — 일본판 vs 미국판, 발매 6주 차 가격 흐름"></a>
+<div class="lgrid"><div class="gbc"><a class="gimg" href="/%ED%8F%AC%EC%BC%93%EB%AA%AC%EC%B9%B4%EB%93%9C-30%EC%A3%BC%EB%85%84-%EB%B0%95%EC%8A%A4-%EC%8B%9C%EC%84%B8/"><img loading="lazy" src="/wp-content/uploads/2026/10/blvl-tcg-30th-gyomyo-v2.jpg" alt="포켓몬카드 30주년 30th CELEBRATION 박스 시세 분석 — 일본판 vs 미국판, 발매 6주 차 가격 흐름"></a>
 <div class="gcat"><a href="/category/tcg/">TCG</a></div><h2 class="gtitle"><a href="/%ED%8F%AC%EC%BC%93%EB%AA%AC%EC%B9%B4%EB%93%9C-30%EC%A3%BC%EB%85%84-%EB%B0%95%EC%8A%A4-%EC%8B%9C%EC%84%B8/">포켓몬카드 30주년 30th CELEBRATION 박스 시세 분석 — 일본판 vs 미국판, 발매 6주 차 가격 흐름</a></h2>
 <div class="gmeta"><span>Written by:</span><b>blvl.</b><span>/</span><time>2026년 10월 28일</time></div></div><div class="gbc"><a class="gimg" href="/%EB%AF%B8%EB%93%9C%EC%A0%80%EB%8B%88%EC%97%90%EC%84%9C-%EC%A0%84%EC%8B%A0-%EC%9D%B4%EB%AF%B8%EC%A7%80/"><img loading="lazy" src="/wp-content/uploads/2024/04/blvl_포스팅표지19-1.jpg" alt="미드저니 사용방법 EP4 - 전신컷 쉽게 만들기"></a>
 <div class="gcat"><a href="/category/tech/">TECH</a></div><h2 class="gtitle"><a href="/%EB%AF%B8%EB%93%9C%EC%A0%80%EB%8B%88%EC%97%90%EC%84%9C-%EC%A0%84%EC%8B%A0-%EC%9D%B4%EB%AF%B8%EC%A7%80/">미드저니 사용방법 EP4 - 전신컷 쉽게 만들기</a></h2>

diff --git a/category/tcg/index.html b/category/tcg/index.html
@@ -6,7 +6,7 @@
 <link rel="alternate" type="application/rss+xml" title="blvl blog" href="/feed.xml">
 <link rel="preload" href="/assets/fonts/NanumGothic-Regular.woff" as="font" type="font/woff" crossorigin>
 <link rel="icon" href="/assets/favicon-32.png" sizes="32x32"><link rel="icon" href="/favicon.ico"><link rel="apple-touch-icon" href="/assets/apple-touch-icon.png">
-<link rel="stylesheet" href="/assets/blog.css?v=7">
+<link rel="stylesheet" href="/assets/blog.css?v=8">
 <script async src="https://pagead2.googlesyndication.com/pagead/js/adsbygoogle.js?client=ca-pub-4380904134243959" crossorigin="anonymous"></script>
 </head><body>
 <header class="site-header" id="hd"><div class="inside-header">
@@ -15,7 +15,7 @@
 <ul class="main-nav"><li><a class="" href="/">HOME</a></li><li><a class="on" href="/category/tcg/">TCG</a></li><li><a class="" href="/category/minicar/">MINICAR</a></li><li><a class="" href="/category/figure/">FIGURE</a></li><li><a class="" href="/category/game/">GAME</a></li><li><a class="" href="/category/tech/">TECH</a></li></ul><a class="nav-search" href="/search/" aria-label="검색"><svg viewBox="0 0 512 512" aria-hidden="true" fill="currentColor"><path d="M208 48c-88.4 0-160 71.6-160 160s71.6 160 160 160 160-71.6 160-160S296.4 48 208 48zM0 208C0 93.1 93.1 0 208 0s208 93.1 208 208c0 48.8-16.8 93.7-45 129.2l135 135-34 34-135-135C301.7 399.2 256.8 416 208 416 93.1 416 0 322.9 0 208z"/></svg></a></nav>
 </div></header>
 <div class="site-content"><main class="content-area"><header class="page-header"><h1>TCG</h1><p>포켓몬카드를 비롯한 트레이딩 카드 게임 — 박스 개봉기, 시세, 신상 발매 소식</p></header><article class="inside-article"><header><h2 class="entry-title"><a href="/%ED%8F%AC%EC%BC%93%EB%AA%AC%EC%B9%B4%EB%93%9C-30%EC%A3%BC%EB%85%84-%EB%B0%95%EC%8A%A4-%EC%8B%9C%EC%84%B8/">포켓몬카드 30주년 30th CELEBRATION 박스 시세 분석 — 일본판 vs 미국판, 발매 6주 차 가격 흐름</a></h2>
-<div class="entry-meta"><time>2026년 10월 28일</time> by blvl.</div></header><div class="post-image"><a href="/%ED%8F%AC%EC%BC%93%EB%AA%AC%EC%B9%B4%EB%93%9C-30%EC%A3%BC%EB%85%84-%EB%B0%95%EC%8A%A4-%EC%8B%9C%EC%84%B8/"><img loading="lazy" src="/wp-content/uploads/2026/10/blvl-tcg-30th-gyomyo.jpg" alt="포켓몬카드 30주년 30th CELEBRATION 박스 시세 분석 — 일본판 vs 미국판, 발매 6주 차 가격 흐름"></a></div>
+<div class="entry-meta"><time>2026년 10월 28일</time> by blvl.</div></header><div class="post-image"><a href="/%ED%8F%AC%EC%BC%93%EB%AA%AC%EC%B9%B4%EB%93%9C-30%EC%A3%BC%EB%85%84-%EB%B0%95%EC%8A%A4-%EC%8B%9C%EC%84%B8/"><img loading="lazy" src="/wp-content/uploads/2026/10/blvl-tcg-30th-gyomyo-v2.jpg" alt="포켓몬카드 30주년 30th CELEBRATION 박스 시세 분석 — 일본판 vs 미국판, 발매 6주 차 가격 흐름"></a></div>
 <div class="entry-summary"><p>9월 16일 동시 발매된 포켓몬카드 30주년 30th CELEBRATION. 일본판 박스는 정가 7,200엔에서 스니커덩크 실거래가 2만 5천 엔 안팎에 머물고, 미국판 ETB는 9월 말 고점보다 30% 가까이 내려왔어요. 발매 6주 차 시세 흐름을 정리했어요.</p></div><a class="read-more" href="/%ED%8F%AC%EC%BC%93%EB%AA%AC%EC%B9%B4%EB%93%9C-30%EC%A3%BC%EB%85%84-%EB%B0%95%EC%8A%A4-%EC%8B%9C%EC%84%B8/">더 보기</a></article></main><div class="sidebar"><div class="inside-right-sidebar">
 <aside class="widget"><form class="search-form" action="/search/"><input name="q" placeholder="검색 …" aria-label="검색"><button aria-label="검색"><svg width="16" height="16" viewBox="0 0 512 512" aria-hidden="true" fill="currentColor"><path d="M208 48c-88.4 0-160 71.6-160 160s71.6 160 160 160 160-71.6 160-160S296.4 48 208 48zM0 208C0 93.1 93.1 0 208 0s208 93.1 208 208c0 48.8-16.8 93.7-45 129.2l135 135-34 34-135-135C301.7 399.2 256.8 416 208 416 93.1 416 0 322.9 0 208z"/></svg></button></form></aside>
 <aside class="widget widget_recent_entries"><h2 class="widget-title">Recent Posts</h2><ul><li><a href="/%ED%8F%AC%EC%BC%93%EB%AA%AC%EC%B9%B4%EB%93%9C-30%EC%A3%BC%EB%85%84-%EB%B0%95%EC%8A%A4-%EC%8B%9C%EC%84%B8/">포켓몬카드 30주년 30th CELEBRATION 박스 시세 분석 — 일본판 vs 미국판, 발매 6주 차 가격 흐름</a></li><li><a href="/%EB%AF%B8%EB%93%9C%EC%A0%80%EB%8B%88%EC%97%90%EC%84%9C-%EC%A0%84%EC%8B%A0-%EC%9D%B4%EB%AF%B8%EC%A7%80/">미드저니 사용방법 EP4 - 전신컷 쉽게 만들기</a></li><li><a href="/%EC%9C%A0%ED%8A%9C%EB%B8%8C-%EC%B1%84%EB%84%90-%EC%B6%94%EA%B0%80/">유튜브 채널 추가, 삭제. 계정 1개에 여러 채널 만들기</a></li><li><a href="/%EB%8B%A4%EB%B9%88%EC%B9%98-%EB%A6%AC%EC%A1%B8%EB%B8%8C-%EC%BB%AC%EB%9F%AC/">다빈치 리졸브 맥 에서 프리뷰와 영상의 색감이 다를 때 해결 방법</a></li><li><a href="/%ED%8F%AC%ED%86%A0%EC%83%B5-%ED%95%B8%EB%93%9C%ED%88%B4/">포토샵 핸드툴(Hand tool) 미끄러지는 현상 10초 만에 해결!</a></li></ul></aside>

diff --git a/blog/index.html b/blog/index.html
@@ -6,7 +6,7 @@
 <link rel="alternate" type="application/rss+xml" title="blvl blog" href="/feed.xml">
 <link rel="preload" href="/assets/fonts/NanumGothic-Regular.woff" as="font" type="font/woff" crossorigin>
 <link rel="icon" href="/assets/favicon-32.png" sizes="32x32"><link rel="icon" href="/favicon.ico"><link rel="apple-touch-icon" href="/assets/apple-touch-icon.png">
-<link rel="stylesheet" href="/assets/blog.css?v=7">
+<link rel="stylesheet" href="/assets/blog.css?v=8">
 <script async src="https://pagead2.googlesyndication.com/pagead/js/adsbygoogle.js?client=ca-pub-4380904134243959" crossorigin="anonymous"></script>
 </head><body>
 <header class="site-header" id="hd"><div class="inside-header">
@@ -15,7 +15,7 @@
 <ul class="main-nav"><li><a class="" href="/">HOME</a></li><li><a class="" href="/category/tcg/">TCG</a></li><li><a class="" href="/category/minicar/">MINICAR</a></li><li><a class="" href="/category/figure/">FIGURE</a></li><li><a class="" href="/category/game/">GAME</a></li><li><a class="" href="/category/tech/">TECH</a></li></ul><a class="nav-search" href="/search/" aria-label="검색"><svg viewBox="0 0 512 512" aria-hidden="true" fill="currentColor"><path d="M208 48c-88.4 0-160 71.6-160 160s71.6 160 160 160 160-71.6 160-160S296.4 48 208 48zM0 208C0 93.1 93.1 0 208 0s208 93.1 208 208c0 48.8-16.8 93.7-45 129.2l135 135-34 34-135-135C301.7 399.2 256.8 416 208 416 93.1 416 0 322.9 0 208z"/></svg></a></nav>
 </div></header>
 <div class="site-content"><main class="content-area"><article class="inside-article"><header><h2 class="entry-title"><a href="/%ED%8F%AC%EC%BC%93%EB%AA%AC%EC%B9%B4%EB%93%9C-30%EC%A3%BC%EB%85%84-%EB%B0%95%EC%8A%A4-%EC%8B%9C%EC%84%B8/">포켓몬카드 30주년 30th CELEBRATION 박스 시세 분석 — 일본판 vs 미국판, 발매 6주 차 가격 흐름</a></h2>
-<div class="entry-meta"><time>2026년 10월 28일</time> by blvl.</div></header><div class="post-image"><a href="/%ED%8F%AC%EC%BC%93%EB%AA%AC%EC%B9%B4%EB%93%9C-30%EC%A3%BC%EB%85%84-%EB%B0%95%EC%8A%A4-%EC%8B%9C%EC%84%B8/"><img loading="lazy" src="/wp-content/uploads/2026/10/blvl-tcg-30th-gyomyo.jpg" alt="포켓몬카드 30주년 30th CELEBRATION 박스 시세 분석 — 일본판 vs 미국판, 발매 6주 차 가격 흐름"></a></div>
+<div class="entry-meta"><time>2026년 10월 28일</time> by blvl.</div></header><div class="post-image"><a href="/%ED%8F%AC%EC%BC%93%EB%AA%AC%EC%B9%B4%EB%93%9C-30%EC%A3%BC%EB%85%84-%EB%B0%95%EC%8A%A4-%EC%8B%9C%EC%84%B8/"><img loading="lazy" src="/wp-content/uploads/2026/10/blvl-tcg-30th-gyomyo-v2.jpg" alt="포켓몬카드 30주년 30th CELEBRATION 박스 시세 분석 — 일본판 vs 미국판, 발매 6주 차 가격 흐름"></a></div>
 <div class="entry-summary"><p>9월 16일 동시 발매된 포켓몬카드 30주년 30th CELEBRATION. 일본판 박스는 정가 7,200엔에서 스니커덩크 실거래가 2만 5천 엔 안팎에 머물고, 미국판 ETB는 9월 말 고점보다 30% 가까이 내려왔어요. 발매 6주 차 시세 흐름을 정리했어요.</p></div><a class="read-more" href="/%ED%8F%AC%EC%BC%93%EB%AA%AC%EC%B9%B4%EB%93%9C-30%EC%A3%BC%EB%85%84-%EB%B0%95%EC%8A%A4-%EC%8B%9C%EC%84%B8/">더 보기</a></article><article class="inside-article"><header><h2 class="entry-title"><a href="/%EB%AF%B8%EB%93%9C%EC%A0%80%EB%8B%88%EC%97%90%EC%84%9C-%EC%A0%84%EC%8B%A0-%EC%9D%B4%EB%AF%B8%EC%A7%80/">미드저니 사용방법 EP4 - 전신컷 쉽게 만들기</a></h2>
 <div class="entry-meta"><time>2024년 4월 23일</time> by blvl.</div></header><div class="post-image"><a href="/%EB%AF%B8%EB%93%9C%EC%A0%80%EB%8B%88%EC%97%90%EC%84%9C-%EC%A0%84%EC%8B%A0-%EC%9D%B4%EB%AF%B8%EC%A7%80/"><img loading="lazy" src="/wp-content/uploads/2024/04/blvl_포스팅표지19-1.jpg" alt="미드저니 사용방법 EP4 - 전신컷 쉽게 만들기"></a></div>
 <div class="entry-summary"><p>미드저니를 사용하면서 저에게 제일 처음 온 시련이 바로 전신컷, 전신 이미지였습니다. full body, Full shot 등 일반적으로 전신컷을 의미하는 프롬프트를 아무리 넣어봐도 원하는 이미지가 생성되지 않았죠.(대부분 상반신 컷만 나오실겁니다) 그래서 해외 유튜브며 블로그며 커뮤니티마다 돌아다니며 습득한 저만의 노하우를 알려 드리도록 하겠습니다.</p></div><a class="read-more" href="/%EB%AF%B8%EB%93%9C%EC%A0%80%EB%8B%88%EC%97%90%EC%84%9C-%EC%A0%84%EC%8B%A0-%EC%9D%B4%EB%AF%B8%EC%A7%80/">더 보기</a></article><article class="inside-article"><header><h2 class="entry-title"><a href="/%EC%9C%A0%ED%8A%9C%EB%B8%8C-%EC%B1%84%EB%84%90-%EC%B6%94%EA%B0%80/">유튜브 채널 추가, 삭제. 계정 1개에 여러 채널 만들기</a></h2>

diff --git a/mac-키보드-보조키/index.html b/mac-키보드-보조키/index.html
@@ -14,7 +14,7 @@
 <link rel="alternate" type="application/rss+xml" title="blvl blog" href="/feed.xml">
 <link rel="preload" href="/assets/fonts/NanumGothic-Regular.woff" as="font" type="font/woff" crossorigin>
 <link rel="icon" href="/assets/favicon-32.png" sizes="32x32"><link rel="icon" href="/favicon.ico"><link rel="apple-touch-icon" href="/assets/apple-touch-icon.png">
-<link rel="stylesheet" href="/assets/blog.css?v=7">
+<link rel="stylesheet" href="/assets/blog.css?v=8">
 <script async src="https://pagead2.googlesyndication.com/pagead/js/adsbygoogle.js?client=ca-pub-4380904134243959" crossorigin="anonymous"></script>
 <script type="application/ld+json">{"@context": "https://schema.org", "@type": "BlogPosting", "headline": "맥 Mac 기계식 키보드 보조키 설정 하는 방법", "datePublished": "2024-03-25T16:45:36+09:00", "dateModified": "2024-04-19T00:25:32+09:00", "author": {"@type": "Person", "name": "blvl"}, "description": "맥 기본 키보드를 사용하다가 기계식 키보드나 무접점 키보드에 눈을 뜨면서 가장 먼저 격게되는 문제가 바로 보조키 세팅입니다.\n\n맥은 윈도우와 키 배열을 비슷하지만 보조키의 종류와 위치가 달라 키 세팅을 해서 사용해야 하는데요 처음 해보는 분들이 여기에서 생각보다 많이 어려움을 격게 됩니다.\n\n저 역시 맥을 꽤 오래 사용했음에도 불구하고 처음 기계식 키보드를 사용할때 이것 때분에 애를 먹었던 기억이 있습니다. 그래서 오늘은 맥에서 기계식 키보드 설정하는 방법을 알아보도록 하겠습니다.", "mainEntityOfPage": "https://blvlblog.com/mac-%ED%82%A4%EB%B3%B4%EB%93%9C-%EB%B3%B4%EC%A1%B0%ED%82%A4/", "image": "https://blvlblog.com/wp-content/uploads/2024/03/blvl_포스팅표지3.jpg"}</script></head><body>
 <header class="site-header" id="hd"><div class="inside-header">

diff --git a/미드저니에서-전신-이미지/index.html b/미드저니에서-전신-이미지/index.html
@@ -6,7 +6,7 @@
 <link rel="alternate" type="application/rss+xml" title="blvl blog" href="/feed.xml">
 <link rel="preload" href="/assets/fonts/NanumGothic-Regular.woff" as="font" type="font/woff" crossorigin>
 <link rel="icon" href="/assets/favicon-32.png" sizes="32x32"><link rel="icon" href="/favicon.ico"><link rel="apple-touch-icon" href="/assets/apple-touch-icon.png">
-<link rel="stylesheet" href="/assets/blog.css?v=7">
+<link rel="stylesheet" href="/assets/blog.css?v=8">
 <script async src="https://pagead2.googlesyndication.com/pagead/js/adsbygoogle.js?client=ca-pub-4380904134243959" crossorigin="anonymous"></script>
 <script type="application/ld+json">{"@context": "https://schema.org", "@type": "BlogPosting", "headline": "미드저니 사용방법 EP4 - 전신컷 쉽게 만들기", "datePublished": "2024-04-23T17:20:02+09:00", "dateModified": "2024-04-24T16:42:41+09:00", "author": {"@type": "Person", "name": "blvl"}, "description": "미드저니를 사용하면서 저에게 제일 처음 온 시련이 바로 전신컷, 전신 이미지였습니다. full body, Full shot 등 일반적으로 전신컷을 의미하는 프롬프트를 아무리 넣어봐도 원하는 이미지가 생성되지 않았죠.(대부분 상반신 컷만 나오실겁니다) 그래서 해외 유튜브며 블로그며 커뮤니티마다 돌아다니며 습득한 저만의 노하우를 알려 드리도록 하겠습니다.", "mainEntityOfPage": "https://blvlblog.com/%EB%AF%B8%EB%93%9C%EC%A0%80%EB%8B%88%EC%97%90%EC%84%9C-%EC%A0%84%EC%8B%A0-%EC%9D%B4%EB%AF%B8%EC%A7%80/", "image": "https://blvlblog.com/wp-content/uploads/2024/04/blvl_포스팅표지19-1.jpg"}</script></head><body>
 <header class="site-header" id="hd"><div class="inside-header">

diff --git a/유튜브-채널-추가/index.html b/유튜브-채널-추가/index.html
@@ -6,7 +6,7 @@
 <link rel="alternate" type="application/rss+xml" title="blvl blog" href="/feed.xml">
 <link rel="preload" href="/assets/fonts/NanumGothic-Regular.woff" as="font" type="font/woff" crossorigin>
 <link rel="icon" href="/assets/favicon-32.png" sizes="32x32"><link rel="icon" href="/favicon.ico"><link rel="apple-touch-icon" href="/assets/apple-touch-icon.png">
-<link rel="stylesheet" href="/assets/blog.css?v=7">
+<link rel="stylesheet" href="/assets/blog.css?v=8">
 <script async src="https://pagead2.googlesyndication.com/pagead/js/adsbygoogle.js?client=ca-pub-4380904134243959" crossorigin="anonymous"></script>
 <script type="application/ld+json">{"@context": "https://schema.org", "@type": "BlogPosting", "headline": "유튜브 채널 추가, 삭제. 계정 1개에 여러 채널 만들기", "datePublished": "2024-04-15T13:09:42+09:00", "dateModified": "2024-04-23T22:43:14+09:00", "author": {"@type": "Person", "name": "blvl"}, "description": "유튜브를 하다보면 하나의 채널에 다양한 컨텐츠를 게시하는 것 보다 채널마다 컨셉을 구분해서 여러 채널을 운영하는 경우가 있습니다. 유튜브는 하나의 계정에 여러개의 채널을 만들어 관리할 수 있습니다. 이것을 '브랜드 계정' 이라고 하는데요. 오늘은 다양한 채널 운영을 원하는 유튜버를 위한 채널 추가 및 삭제 방법에 대해 알아보겠습니다.", "mainEntityOfPage": "https://blvlblog.com/%EC%9C%A0%ED%8A%9C%EB%B8%8C-%EC%B1%84%EB%84%90-%EC%B6%94%EA%B0%80/", "image": "https://blvlblog.com/wp-content/uploads/2024/04/blvl_포스팅표지16-1.jpg"}</script></head><body>
 <header class="site-header" id="hd"><div class="inside-header">

diff --git a/포토샵-핸드툴/index.html b/포토샵-핸드툴/index.html
@@ -6,7 +6,7 @@
 <link rel="alternate" type="application/rss+xml" title="blvl blog" href="/feed.xml">
 <link rel="preload" href="/assets/fonts/NanumGothic-Regular.woff" as="font" type="font/woff" crossorigin>
 <link rel="icon" href="/assets/favicon-32.png" sizes="32x32"><link rel="icon" href="/favicon.ico"><link rel="apple-touch-icon" href="/assets/apple-touch-icon.png">
-<link rel="stylesheet" href="/assets/blog.css?v=7">
+<link rel="stylesheet" href="/assets/blog.css?v=8">
 <script async src="https://pagead2.googlesyndication.com/pagead/js/adsbygoogle.js?client=ca-pub-4380904134243959" crossorigin="anonymous"></script>
 <script type="application/ld+json">{"@context": "https://schema.org", "@type": "BlogPosting", "headline": "포토샵 핸드툴(Hand tool) 미끄러지는 현상 10초 만에 해결!", "datePublished": "2024-03-26T13:21:17+09:00", "dateModified": "2024-04-23T12:27:37+09:00", "author": {"@type": "Person", "name": "blvl"}, "description": "포토샵을 쓰다 보면 내가 작업하는 환경에 맞도록 이것 저것 옵션을 바꿔가며 사용하게 됩니다. 특히 가장 많이 사용하는 툴 과 기본 옵션을 많이 건드리게 되는데 그 중에서 오늘은 포토샵에서 가장 많이 쓰는 기능중 하나인 핸드 툴(Hnad tool)의 미끄러짐 방지에 대해 알아보도록 하겠습니다.", "mainEntityOfPage": "https://blvlblog.com/%ED%8F%AC%ED%86%A0%EC%83%B5-%ED%95%B8%EB%93%9C%ED%88%B4/", "image": "https://blvlblog.com/wp-content/uploads/2024/03/blvl_포스팅표지4.jpg"}</script></head><body>
 <header class="site-header" id="hd"><div class="inside-header">

diff --git a/다빈치-리졸브-컬러/index.html b/다빈치-리졸브-컬러/index.html
@@ -6,7 +6,7 @@
 <link rel="alternate" type="application/rss+xml" title="blvl blog" href="/feed.xml">
 <link rel="preload" href="/assets/fonts/NanumGothic-Regular.woff" as="font" type="font/woff" crossorigin>
 <link rel="icon" href="/assets/favicon-32.png" sizes="32x32"><link rel="icon" href="/favicon.ico"><link rel="apple-touch-icon" href="/assets/apple-touch-icon.png">
-<link rel="stylesheet" href="/assets/blog.css?v=7">
+<link rel="stylesheet" href="/assets/blog.css?v=8">
 <script async src="https://pagead2.googlesyndication.com/pagead/js/adsbygoogle.js?client=ca-pub-4380904134243959" crossorigin="anonymous"></script>
 <script type="application/ld+json">{"@context": "https://schema.org", "@type": "BlogPosting", "headline": "다빈치 리졸브 맥 에서 프리뷰와 영상의 색감이 다를 때 해결 방법", "datePublished": "2024-04-03T16:53:33+09:00", "dateModified": "2024-04-23T22:44:20+09:00", "author": {"@type": "Person", "name": "blvl"}, "description": "맥에서 다빈치 리졸브(DaVinci Resolve)를 사용하다 보면 프리뷰로 보던 영상과 결과물의 컬러가 달라서 당황했던 기억이 있을 텐데요. 오늘은 맥에서 다빈치 리졸브를 사용할 때 반드시 알아야 하는 컬러 출력 세팅에 대해 알아보겠습니다. \"내 영상은 왜 프리뷰랑 ", "mainEntityOfPage": "https://blvlblog.com/%EB%8B%A4%EB%B9%88%EC%B9%98-%EB%A6%AC%EC%A1%B8%EB%B8%8C-%EC%BB%AC%EB%9F%AC/", "image": "https://blvlblog.com/wp-content/uploads/2024/04/blvl_포스팅표지6.jpg"}</script></head><body>
 <header class="site-header" id="hd"><div class="inside-header">

diff --git a/assets/blog.css b/assets/blog.css
@@ -152,4 +152,4 @@ h1,h2,h3,h4{font-weight:700;line-height:1.2;margin:0 0 20px}
   h2{font-size:28px}h3{font-size:22px}
 }
 .page-header p{margin:.4em 0 0;color:#666;font-size:15px}.footer-links{margin-bottom:6px;font-size:14px}.footer-links a{color:inherit;text-decoration:none}.footer-links a:hover{text-decoration:underline}
-.emo{display:flex;align-items:center;gap:12px;margin:1.6em 0;max-width:560px}.emo img{width:96px;height:96px;flex:none}.emo .bubble{position:relative;background:#fff8e6;border:2px solid #3b3340;border-radius:18px;padding:12px 16px;font-size:16px;line-height:1.5;color:#3b3340}.emo .bubble:before{content:"";position:absolute;left:-10px;top:50%;margin-top:-8px;border:8px solid transparent;border-right-color:#3b3340;border-left:0}.emo .bubble b{display:block;font-size:13px;color:#ff5c8d;margin-bottom:2px}
+.emo{display:flex;align-items:center;gap:12px;margin:1.6em 0;max-width:560px}.emo img{width:120px;height:120px;flex:none}.emo .bubble{position:relative;background:#fff8e6;border:2px solid #3b3340;border-radius:18px;padding:12px 16px;font-size:16px;line-height:1.5;color:#3b3340}.emo .bubble:before{content:"";position:absolute;left:-10px;top:50%;margin-top:-8px;border:8px solid transparent;border-right-color:#3b3340;border-left:0}.emo .bubble b{display:block;font-size:13px;color:#ff5c8d;margin-bottom:2px}

diff --git a/404.html b/404.html
@@ -6,7 +6,7 @@
 <link rel="alternate" type="application/rss+xml" title="blvl blog" href="/feed.xml">
 <link rel="preload" href="/assets/fonts/NanumGothic-Regular.woff" as="font" type="font/woff" crossorigin>
 <link rel="icon" href="/assets/favicon-32.png" sizes="32x32"><link rel="icon" href="/favicon.ico"><link rel="apple-touch-icon" href="/assets/apple-touch-icon.png">
-<link rel="stylesheet" href="/assets/blog.css?v=7">
+<link rel="stylesheet" href="/assets/blog.css?v=8">
 <script async src="https://pagead2.googlesyndication.com/pagead/js/adsbygoogle.js?client=ca-pub-4380904134243959" crossorigin="anonymous"></script>
 </head><body>
 <header class="site-header" id="hd"><div class="inside-header">
